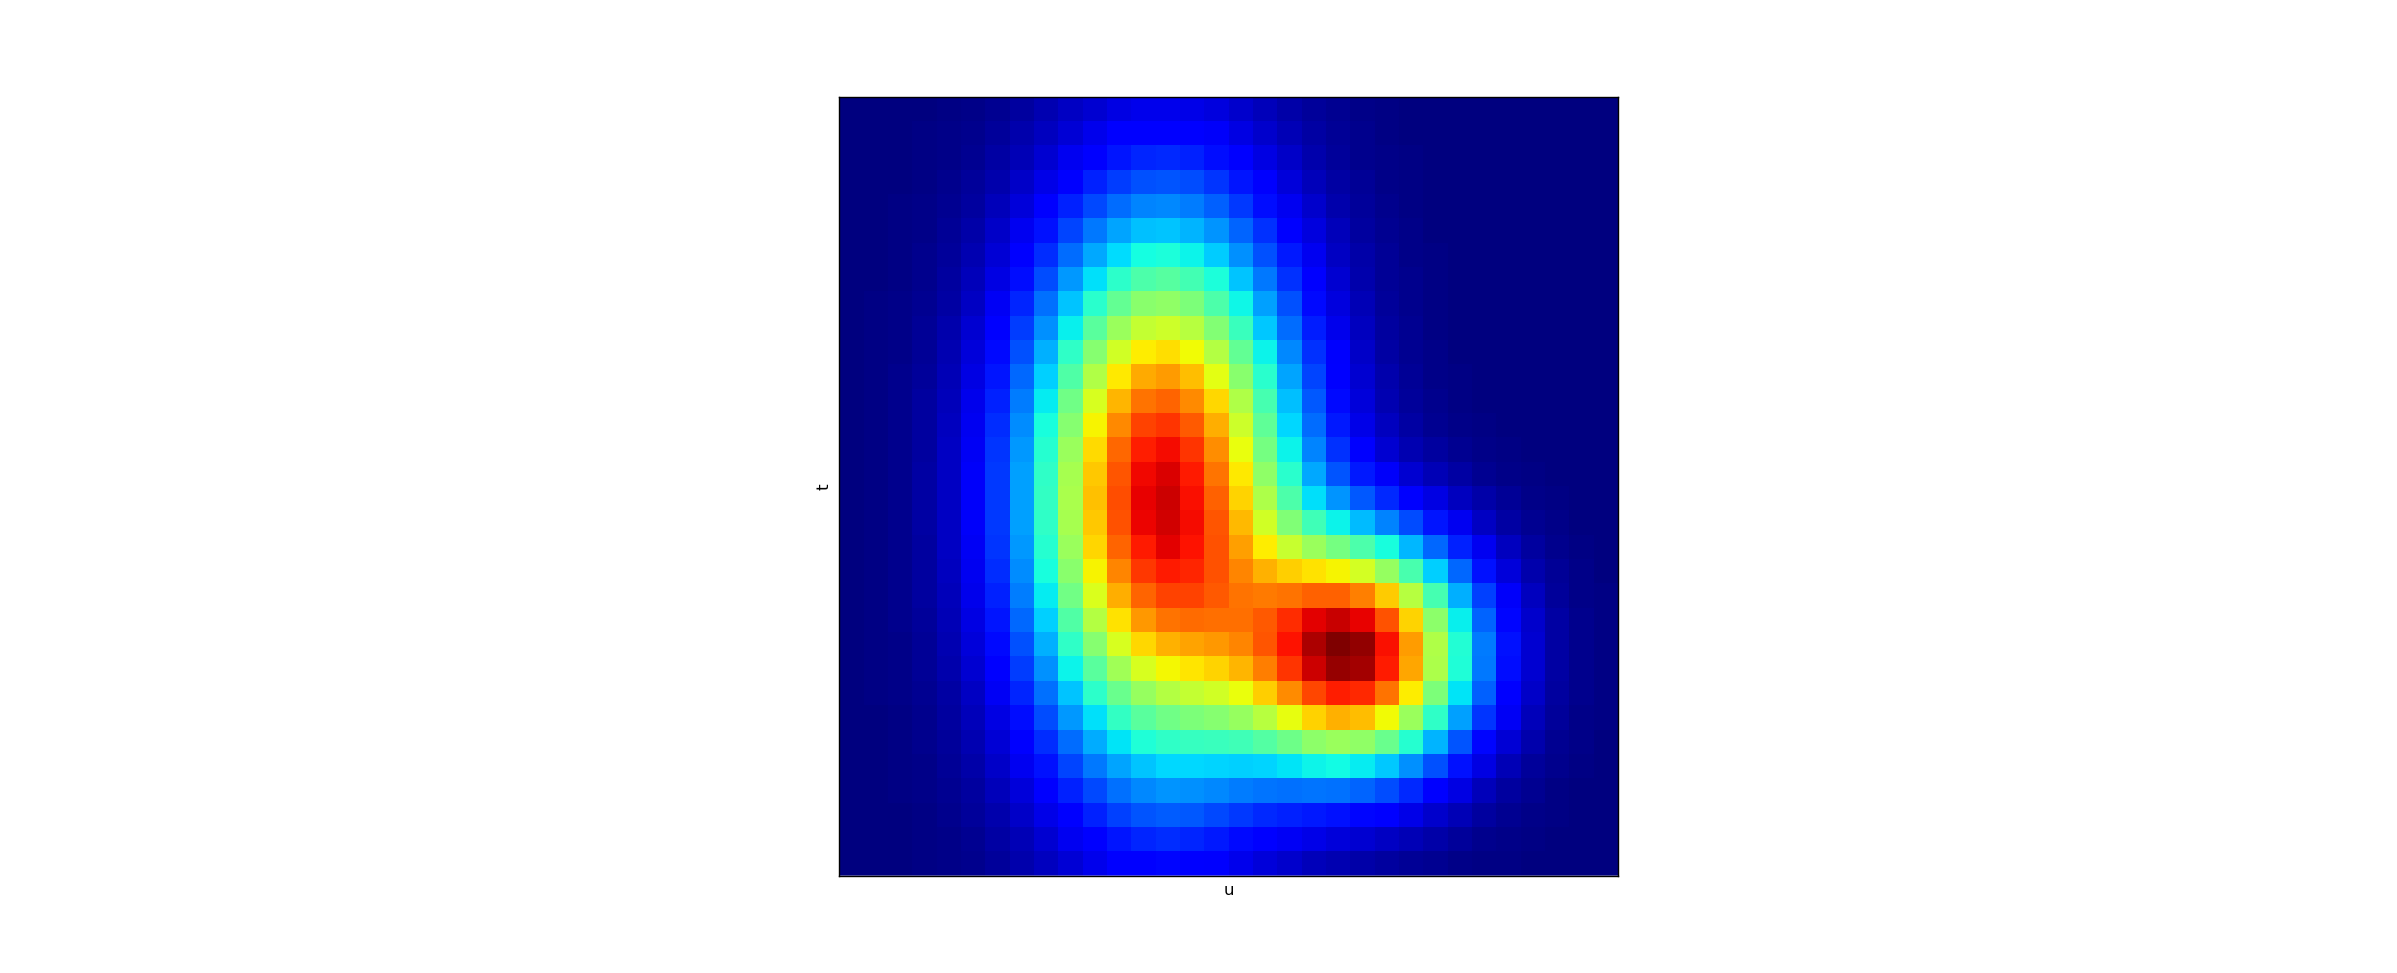
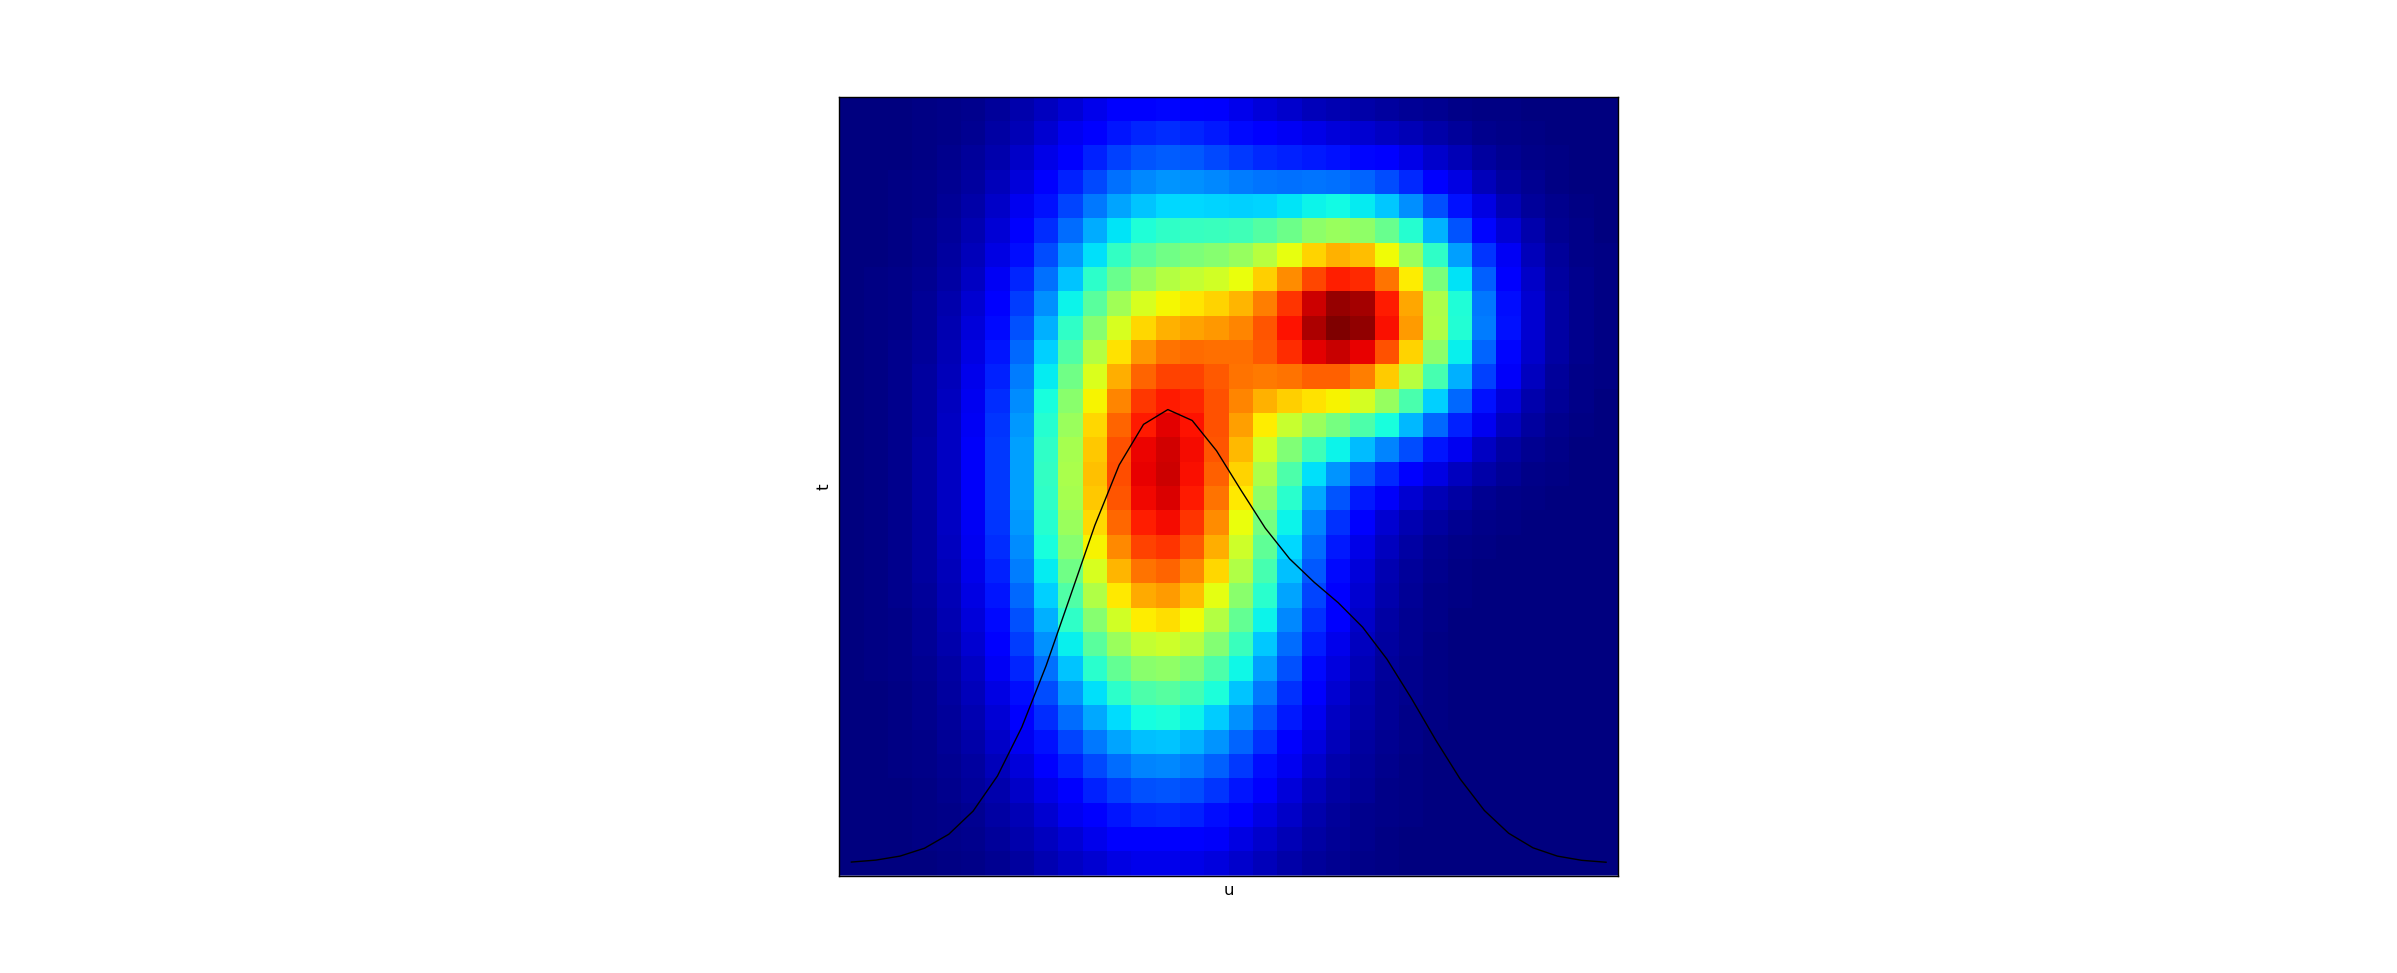
updated post

Changed region(s): [[0.4322, 0.0925, 0.6792, 0.925]]

diff --git a/content/probability_the_monad.md b/content/probability_the_monad.md
@@ -146,7 +146,7 @@ In this case, we can do the calculations by hand. Suppose we compute `prob(u=x)`
 
 Woot! Both of our representations work out correctly.
 
-### But a functor isn't enough
+## Probability as a monad
 
 Lets consider now the following situation. We run an experiment, and measure our conversion rate [as described here](/blog/2013/bayesian_analysis_conversion_rates.html). The net result is that we form an opinion on the conversion rate:
 
@@ -195,4 +195,4 @@ To understand what we are doing here, it makes sense to visualize. Lets represen
 
 ![slices](/blog_media/2016/probability_the_monad/slices.png)
 
-Then the result of bind is a new probability which results by taking a vertical slice, at the x-coordinate `u`, and summing over the vertical line. This is, of course, purely a function of `u` now since all the dependence on `t` has been averaged out.
+Then the result of bind is a new probability which results by taking a vertical slice, at the x-coordinate `u`, and summing over the vertical line. This is, of course, purely a function of `u` now since all the dependence on `t` has been averaged out. The result of summing is displayed in the graph via the black line, interpreted as a 1-dimensional plot of `u`.
